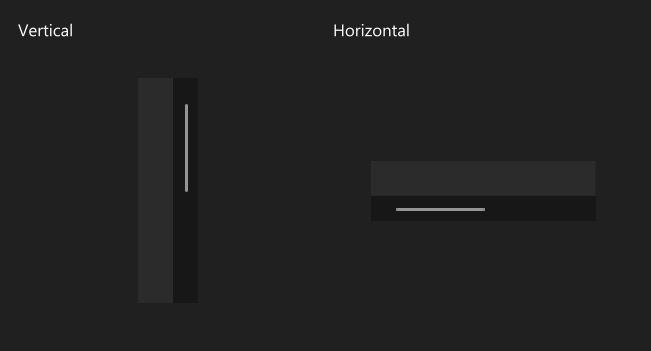
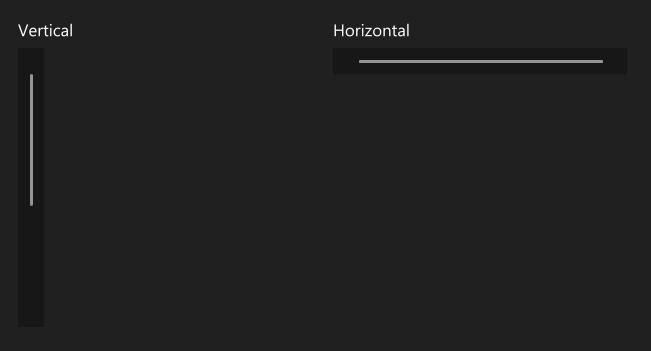
scroll bar: disabled bars and the pressed upper arrow from the native captures, the live sheet reproduces the live bars exactly
The disabled vertical and horizontal bar and the held upper arrow, which v3 never showed, follow the native Windows 11 light captures (scripts/looks_bar_native.py makes the pixel strings): 0 pixels off in the three cells. The scroll_bar_live sheet now holds the two bars at rest as the main window draws them and its reference is composed from the grabs by scripts/looks_bars.py (0 px off); the old edited 24 x 118 crop and the unmatched across crop are replaced.

diff --git a/scripts/looks_bars.py b/scripts/looks_bars.py
@@ -30,8 +30,19 @@ CASES = {
         ("hover thumb", MAIN % "hover-scroll-bar-horizontal-thumb", (441, 303, 196, 16)),
         ("pressed thumb", MAIN % "scroll-bar-thumb-pressed-main-horizontal", (441, 303, 196, 16)),
     ]),
+    "scroll_bar_live": dict(columns=2, cw=200, ch=190, cells=[
+        ("vertical rest", "main-window@1x.png", (775, 111, 16, 186)),
+        ("horizontal rest", MAIN % "hover-scroll-bar-vertical-thumb", (441, 303, 196, 16)),
+    ]),
+    "scroll_bar_native": dict(columns=3, cw=178, ch=170, cells=[
+        ("disabled", "vscroll-disabled@1x.png", (20, 10, 17, 170)),
+        ("disabled horizontal", "hscroll-disabled@1x.png", (16, 20, 178, 17)),
+        ("pressed upper arrow", "vscroll-pressed-arrow@1x.png", (20, 10, 17, 170)),
+    ]),
 }
-EXCLUDE = {}
+# cell relative rectangles painted out of both images (nothing but v3 or native artwork of another look): the native thumb of the pressed
+# arrow cell (2 px, v3's is its own 3 pixel one) and the 17th column and the white first column (v3's is #F7F7F7) of the 16 wide v3 track
+EXCLUDE = {("scroll_bar_native", "pressed upper arrow"): [(0, 14, 17, 170), (16, 0, 17, 14), (0, 0, 1, 14)]}
 
 
 def origin(c, i):
